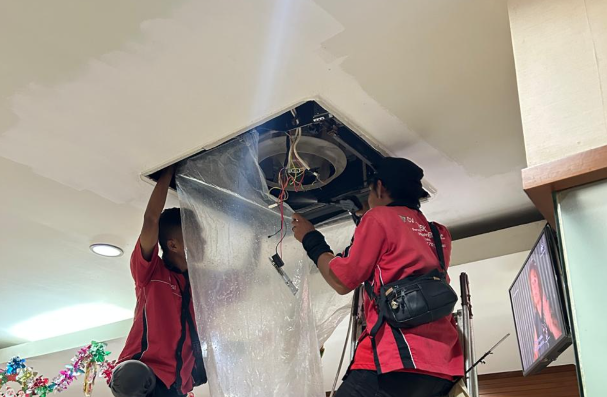
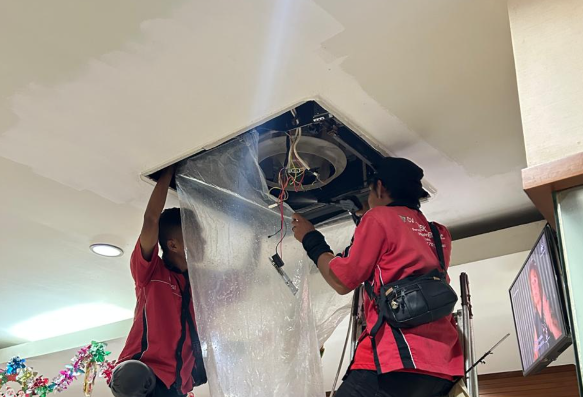
update layanan and harga

diff --git a/src/components/layanan/PriceSection.tsx b/src/components/layanan/PriceSection.tsx
@@ -1,8 +1,27 @@
+"use client";
+
+import { useEffect, useRef, useState } from "react";
 import { prices } from "../../data/layanan";
 import SectionHeader from "../ui/SectionHeader";
 import { MessageCircle } from "lucide-react";
 
 export default function PriceSection() {
+  const [selectedService, setSelectedService] = useState<string | null>(null);
+  const contactRef = useRef<HTMLDivElement>(null);
+
+  useEffect(() => {
+    const handleClickOutside = () => {
+      setSelectedService(null);
+    };
+
+    if (selectedService) {
+      document.addEventListener("click", handleClickOutside);
+    }
+
+    return () => {
+      document.removeEventListener("click", handleClickOutside);
+    };
+  }, [selectedService]);
   return (
     <section className="bg-slate-50 py-20">
       <div className="mx-auto max-w-7xl px-6 lg:px-8">
@@ -60,18 +79,87 @@ export default function PriceSection() {
                   </ul>
                 </div>
 
-                {/* Button */}
-                <a
-                  href={`https://wa.me/6285801330301?text=${encodeURIComponent(
-                    `Hai kak, saya tertarik dengan layanan ${item.title}. Bisa info lebih lanjut?`,
-                  )}`}
-                  target="_blank"
-                  rel="noopener noreferrer"
-                  className="mt-8 inline-flex w-full items-center justify-center gap-2 rounded-xl border border-orange-700 px-4 py-3 text-sm font-semibold text-orange-700 transition hover:bg-orange-700 hover:text-white"
-                >
-                  <MessageCircle className="h-4 w-4" />
-                  Pesan Sekarang
-                </a>
+                {/* Button + Contact Selection */}
+                <div ref={contactRef} className="relative mt-8">
+                  <button
+                    type="button"
+                    onClick={(e) => {
+                      e.stopPropagation();
+
+                      setSelectedService(
+                        selectedService === item.title ? null : item.title,
+                      );
+                    }}
+                    className="inline-flex w-full items-center justify-center gap-2 rounded-xl border border-orange-700 px-4 py-3 text-sm font-semibold text-orange-700 transition hover:bg-orange-700 hover:text-white"
+                  >
+                    <MessageCircle className="h-4 w-4" />
+                    Pesan Sekarang
+                  </button>
+
+                  {selectedService === item.title && (
+                    <div
+                      onClick={(e) => e.stopPropagation()}
+                      className="absolute bottom-full left-0 z-20 mb-3 w-full overflow-hidden rounded-2xl border border-slate-200 bg-white p-2 shadow-xl"
+                    >
+                      <div className="px-3 py-2">
+                        <p className="text-sm font-semibold text-slate-900">
+                          Pilih Kontak WhatsApp
+                        </p>
+                        <p className="mt-1 text-xs text-slate-500">
+                          Pilih admin yang ingin Anda hubungi
+                        </p>
+                      </div>
+
+                      {/* Admin 1 */}
+                      <a
+                        href={`https://wa.me/6285801330301?text=${encodeURIComponent(
+                          `Hai kak, saya tertarik dengan layanan ${item.title}. Bisa info lebih lanjut?`,
+                        )}`}
+                        target="_blank"
+                        rel="noopener noreferrer"
+                        onClick={() => setSelectedService(null)}
+                        className="group flex items-center gap-3 rounded-xl px-3 py-3 transition hover:bg-orange-50"
+                      >
+                        <div className="flex h-10 w-10 shrink-0 items-center justify-center rounded-full bg-orange-100 text-orange-700 transition group-hover:bg-orange-600 group-hover:text-white">
+                          <MessageCircle className="h-5 w-5" />
+                        </div>
+
+                        <div>
+                          <p className="text-sm font-semibold text-slate-900">
+                            Admin 1
+                          </p>
+                          <p className="text-xs text-slate-500">
+                            0858-0133-0301
+                          </p>
+                        </div>
+                      </a>
+
+                      {/* Admin 2 */}
+                      <a
+                        href={`https://wa.me/6285227022999?text=${encodeURIComponent(
+                          `Hai kak, saya tertarik dengan layanan ${item.title}. Bisa info lebih lanjut?`,
+                        )}`}
+                        target="_blank"
+                        rel="noopener noreferrer"
+                        onClick={() => setSelectedService(null)}
+                        className="group flex items-center gap-3 rounded-xl px-3 py-3 transition hover:bg-orange-50"
+                      >
+                        <div className="flex h-10 w-10 shrink-0 items-center justify-center rounded-full bg-orange-100 text-orange-700 transition group-hover:bg-orange-600 group-hover:text-white">
+                          <MessageCircle className="h-5 w-5" />
+                        </div>
+
+                        <div>
+                          <p className="text-sm font-semibold text-slate-900">
+                            Admin 2
+                          </p>
+                          <p className="text-xs text-slate-500">
+                            0852-2702-2999
+                          </p>
+                        </div>
+                      </a>
+                    </div>
+                  )}
+                </div>
               </div>
             );
           })}

diff --git a/src/components/tentang/VisiMission.tsx b/src/components/tentang/VisiMission.tsx
@@ -21,9 +21,9 @@ export default function VisionMission() {
             <h3 className="mb-4 text-2xl font-bold text-slate-900">Visi</h3>
 
             <p className="leading-relaxed text-slate-600">
-              Menjadi penyedia layanan AC terpercaya dengan pelayanan
-              profesional, berkualitas, dan berorientasi pada kepuasan
-              pelanggan.
+              Menjadi perusahaan jasa teknik elektronik yang profesional,
+              terpercaya, inovatif, serta menjadi pilihan utama masyarakat dan
+              dunia industri.
             </p>
           </div>
 
@@ -38,22 +38,26 @@ export default function VisionMission() {
             <ul className="space-y-3 text-slate-600">
               <li className="flex gap-3">
                 <span className="mt-2 h-2 w-2 rounded-full bg-orange-500" />
-                Memberikan layanan AC yang cepat dan berkualitas.
+                Memberikan pelayanan terbaik.
               </li>
 
               <li className="flex gap-3">
                 <span className="mt-2 h-2 w-2 rounded-full bg-orange-500" />
-                Mengutamakan kejujuran dan transparansi dalam pelayanan.
+                Menjamin kualitas pekerjaan.
               </li>
 
               <li className="flex gap-3">
                 <span className="mt-2 h-2 w-2 rounded-full bg-orange-500" />
-                Melakukan pengerjaan dengan standar aman dan rapi.
+                Mengembangkan kompetensi SDM.
               </li>
 
               <li className="flex gap-3">
                 <span className="mt-2 h-2 w-2 rounded-full bg-orange-500" />
-                Membangun hubungan jangka panjang dengan pelanggan.
+                Menjalin hubungan jangka panjang dengan pelanggan.
+              </li>
+              <li className="flex gap-3">
+                <span className="mt-2 h-2 w-2 rounded-full bg-orange-500" />
+                Mengikuti perkembangan teknologi
               </li>
             </ul>
           </div>

diff --git a/src/data/home.ts b/src/data/home.ts
@@ -3,12 +3,12 @@ import {
   Snowflake,
   ShieldCheck,
   BadgeDollarSign,
-  ThermometerSnowflake,
+  PackageOpen,
+  Wind,
   PhoneCall,
   CalendarClock,
   Truck,
   CircleCheckBig,
-  CheckCircle2,
   Settings,
 } from "lucide-react";
 
@@ -66,19 +66,27 @@ export const advantages = [
 
 export const homeServices = [
   {
-    icon: Snowflake,
-    title: "Cuci AC",
-    desc: "Membersihkan unit indoor dan outdoor agar AC kembali dingin, bersih, dan lebih hemat listrik.",
+    icon: Wind,
+    title: "Cleaning AC",
+    desc: "Membersihkan unit indoor dan outdoor agar AC kembali dingin, bersih, dan bekerja lebih optimal.",
   },
+
   {
     icon: Wrench,
     title: "Service AC",
-    desc: "Mengatasi AC bocor, tidak dingin, mati total, berisik, maupun kerusakan lainnya.",
+    desc: "Mengatasi berbagai masalah AC seperti tidak dingin, bocor, berisik, mati total, dan kerusakan lainnya.",
   },
+
   {
-    icon: ThermometerSnowflake,
-    title: "Isi Freon",
-    desc: "Pengisian Freon R32, R410A, R22 serta pengecekan tekanan sistem pendingin.",
+    icon: Snowflake,
+    title: "Pasang AC",
+    desc: "Pemasangan AC baru dengan instalasi yang rapi, aman, dan disesuaikan dengan kebutuhan ruangan.",
+  },
+
+  {
+    icon: PackageOpen,
+    title: "Bongkar Pasang",
+    desc: "Membongkar dan memasang kembali unit AC dengan aman serta memastikan AC berfungsi dengan baik.",
   },
 ];
 

diff --git a/src/components/tentang/HeroSection.tsx b/src/components/tentang/HeroSection.tsx
@@ -16,10 +16,11 @@ export default function AboutHero() {
           </h1>
 
           <p className="mt-8 max-w-xl text-lg leading-8 text-slate-600">
-            CV. Aneka Technic merupakan penyedia jasa service, perawatan, dan
-            instalasi AC yang berkomitmen memberikan pelayanan profesional,
-            harga yang transparan, serta hasil pekerjaan yang berkualitas untuk
-            rumah maupun bisnis.
+            CV Aneka Technic merupakan perusahaan yang bergerak di bidang jasa
+            instalasi, perawatan, perbaikan, dan pemeliharaan berbagai peralatan
+            elektronik rumah tangga maupun komersial. Perusahaan berfokus pada
+            kualitas pelayanan, ketepatan waktu, serta kepuasan pelanggan dengan
+            didukung tenaga teknisi yang kompeten.
           </p>
         </div>
 

diff --git a/src/components/home/ServicesSection.tsx b/src/components/home/ServicesSection.tsx
@@ -14,7 +14,7 @@ export default function ServicesSection() {
         />
 
         {/* Cards */}
-        <div className="mt-16 grid gap-8 md:grid-cols-3">
+        <div className="mt-16 grid gap-8 md:grid-cols-2">
           {homeServices.map((item) => {
             const Icon = item.icon;
 
@@ -32,10 +32,6 @@ export default function ServicesSection() {
                 </h3>
 
                 <p className="mt-4 leading-7 text-slate-600">{item.desc}</p>
-
-                <button className="mt-8 font-semibold text-orange-700 transition-all duration-300 group-hover:translate-x-1">
-                  Pelajari Selengkapnya →
-                </button>
               </div>
             );
           })}
